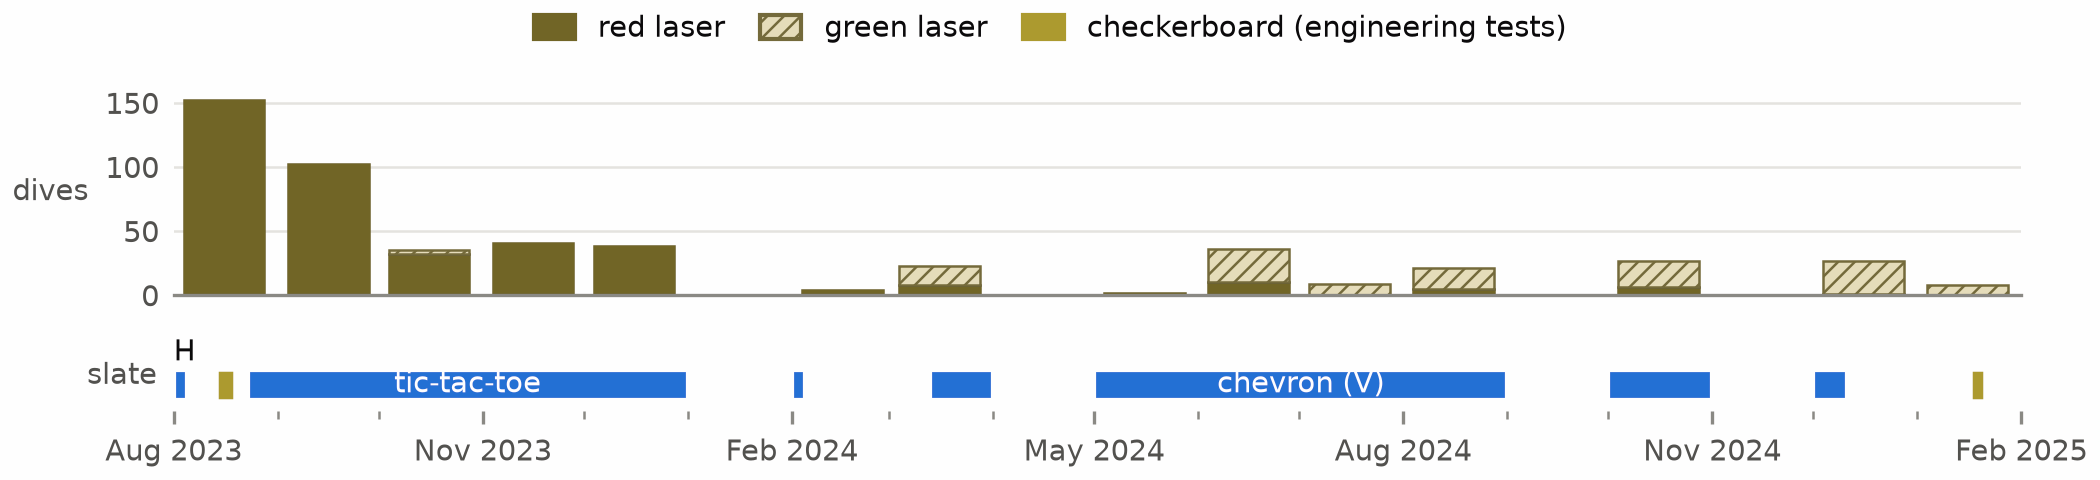
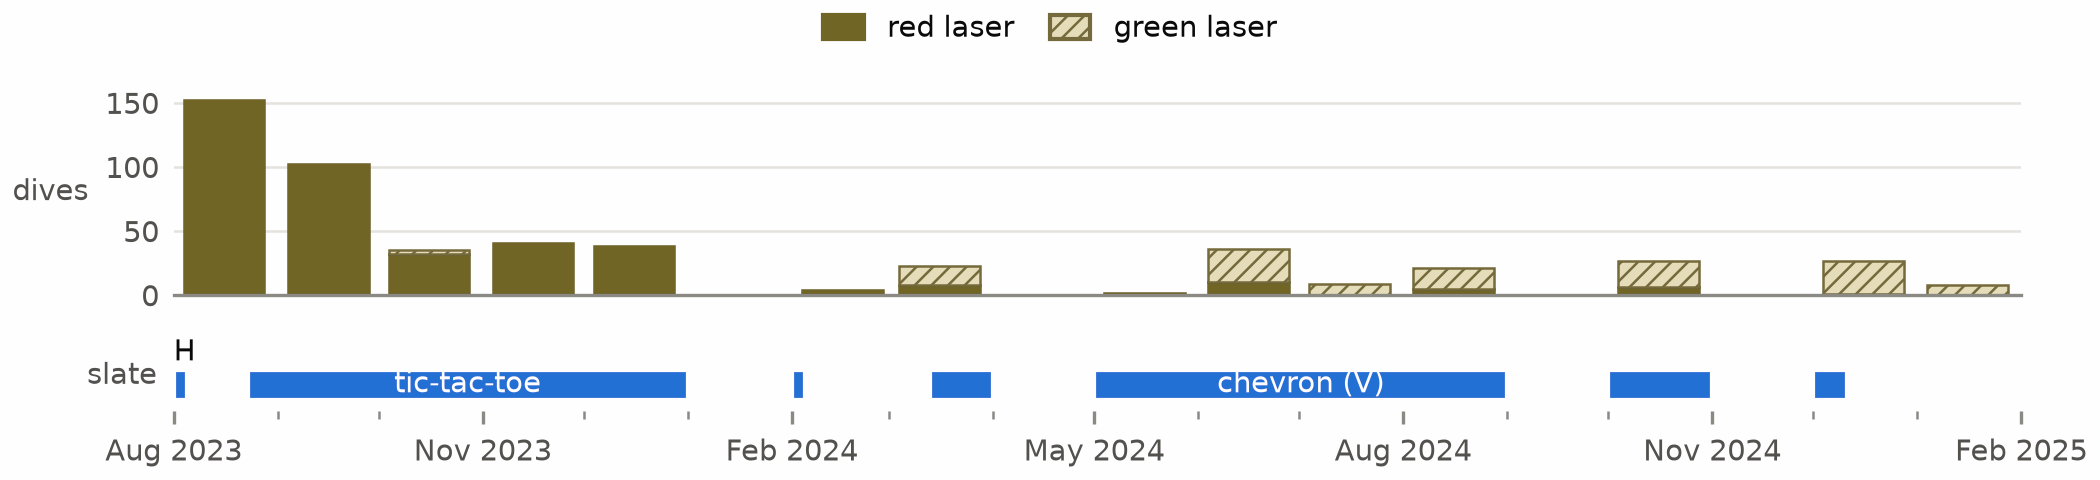
fig: timeline drops the checkerboard marks
The checkerboard engineering tests are not shown (the author); their dives
still count in the dives lane. The key is now red and green laser only.

Changed region(s): [[0.2476, 0.0, 0.7429, 0.0938], [0.9286, 0.7812, 0.9595, 0.8438], [0.0929, 0.7812, 0.1238, 0.8438]]

diff --git a/analysis/codesign/fig_timeline.py b/analysis/codesign/fig_timeline.py
@@ -20,8 +20,8 @@ Time axis 2023-08 .. 2025-01 (the collection period). Two lanes:
           (data/db_extracts/timeline_slate_links.psv, sql/extract_timeline_slate_links.sql, 15 more), slate frames
           read by eye (analysis/codesign/slate_pattern_reads.csv, image ids listed). Gaps stay blank: the one
           field dive in a gap, dive 45 (2023-08-17), has no slate and likely predates the slate procedure (the
-          author, 2026-10-26). Orange: checkerboard engineering tests, 2023-08-14..18
-          (dive.calibration_target_id) and 2025-01-17 (TG-7 sessions; analysis/codesign/timeline.yaml).
+          author, 2026-10-26). Checkerboard engineering tests (2023-08-14..18, 2025-01-17) are not shown (the
+          author, 2026-10-26); their dives still count in the dives lane.
 One key row; direct labels only for the slate pattern names. Dates are tabulated by
 analysis/codesign/timeline_dates.py.
 
@@ -44,11 +44,10 @@ from fishsense_cscw.paths import REPO
 
 OUT = REPO / "analysis/codesign/figures"
 W, H, FS = 7.0, 1.6, 7
-BLUE, ORANGE = "#2a78d6", "#eb6834"                     # reference palette slots 1-2 (slate, checkerboard)
+BLUE = "#2a78d6"                                        # reference palette slot 1 (slate)
 INK, INK2, MUTED, GRID = "#0b0b0b", "#52514e", "#8a8984", "#e4e3df"
 RED, GREEN, GREEN_HATCH = "#a8322b", "#c4e8b8", "#3f7a37"
 T0, T1 = pd.Timestamp("2023-08-01"), pd.Timestamp("2025-02-01")
-CB_TESTS = [("2023-08-14", "2023-08-18"), ("2025-01-17", "2025-01-17")]
 BAR, MIN_DAYS, BAR_DAYS = 0.62, 4, 24
 DEUTAN = np.array([[0.367322, 0.860646, -0.227968], [0.280085, 0.672501, 0.047413], [-0.011820, 0.042940, 0.968881]])  # Machado 2009, severity 1
 
@@ -157,7 +156,7 @@ def main():
     dx.set_ylabel("dives", rotation=0, ha="right", va="center", labelpad=4, color=INK2)
     dx.grid(axis="y", color=GRID, lw=0.6); dx.set_axisbelow(True)
 
-    # lane 2: slate pattern; orange = checkerboard tests
+    # lane 2: slate pattern
     known = D.assign(pattern=D.slate.map(pattern))[["t", "pattern"]].dropna()
     link = pd.read_csv(REPO / "data/db_extracts/timeline_slate_links.psv", sep="|", header=None, names=["dive_id", "slate"])
     link = link.merge(D[["dive_id", "t"]], on="dive_id").assign(pattern=lambda d: d.slate.map(pattern))[["t", "pattern"]]
@@ -174,8 +173,6 @@ def main():
     order = sorted(spans.items(), key=lambda kv: kv[1][0])
     gap = pd.concat([D[(D.t >= b0) & (D.t < a1) & (D.env == "reef")] for (_, (_, b0)), (_, (a1, _)) in zip(order, order[1:])])
     assert gap.dive_id.tolist() == [45], gap.dive_id.tolist()   # predates the slate procedure; any other needs a look
-    for a, b in CB_TESTS:
-        lane_box(sx, a, pd.Timestamp(b) + pd.Timedelta(days=1), fc=ORANGE, ec="white", lw=0.6, zorder=3)
     h0 = spans["H"]
     sx.text(x(h0[0]), BAR / 2 + 0.05, "H", va="bottom", ha="left", color=INK, fontsize=FS)
     sx.set_ylim(-0.55, 0.9); sx.set_yticks([])
@@ -193,9 +190,8 @@ def main():
     sx.set_xlim(x(T0), x(T1))
 
     key = [Patch(facecolor=RED, edgecolor=RED, label="red laser"),
-           Patch(facecolor=GREEN, edgecolor=GREEN_HATCH, hatch="//////", label="green laser"),
-           Patch(facecolor=ORANGE, edgecolor=ORANGE, label="checkerboard (engineering tests)")]
-    fig.legend(handles=key, loc="outside upper center", ncol=3, frameon=False, handlelength=1.4, handleheight=0.9, columnspacing=1.2, borderaxespad=0.1)
+           Patch(facecolor=GREEN, edgecolor=GREEN_HATCH, hatch="//////", label="green laser")]
+    fig.legend(handles=key, loc="outside upper center", ncol=2, frameon=False, handlelength=1.4, handleheight=0.9, columnspacing=1.2, borderaxespad=0.1)
 
     OUT.mkdir(exist_ok=True)
     fig.savefig(OUT / "fig_timeline.pdf", metadata={"Creator": None, "Producer": None, "CreationDate": None, "ModDate": None})
